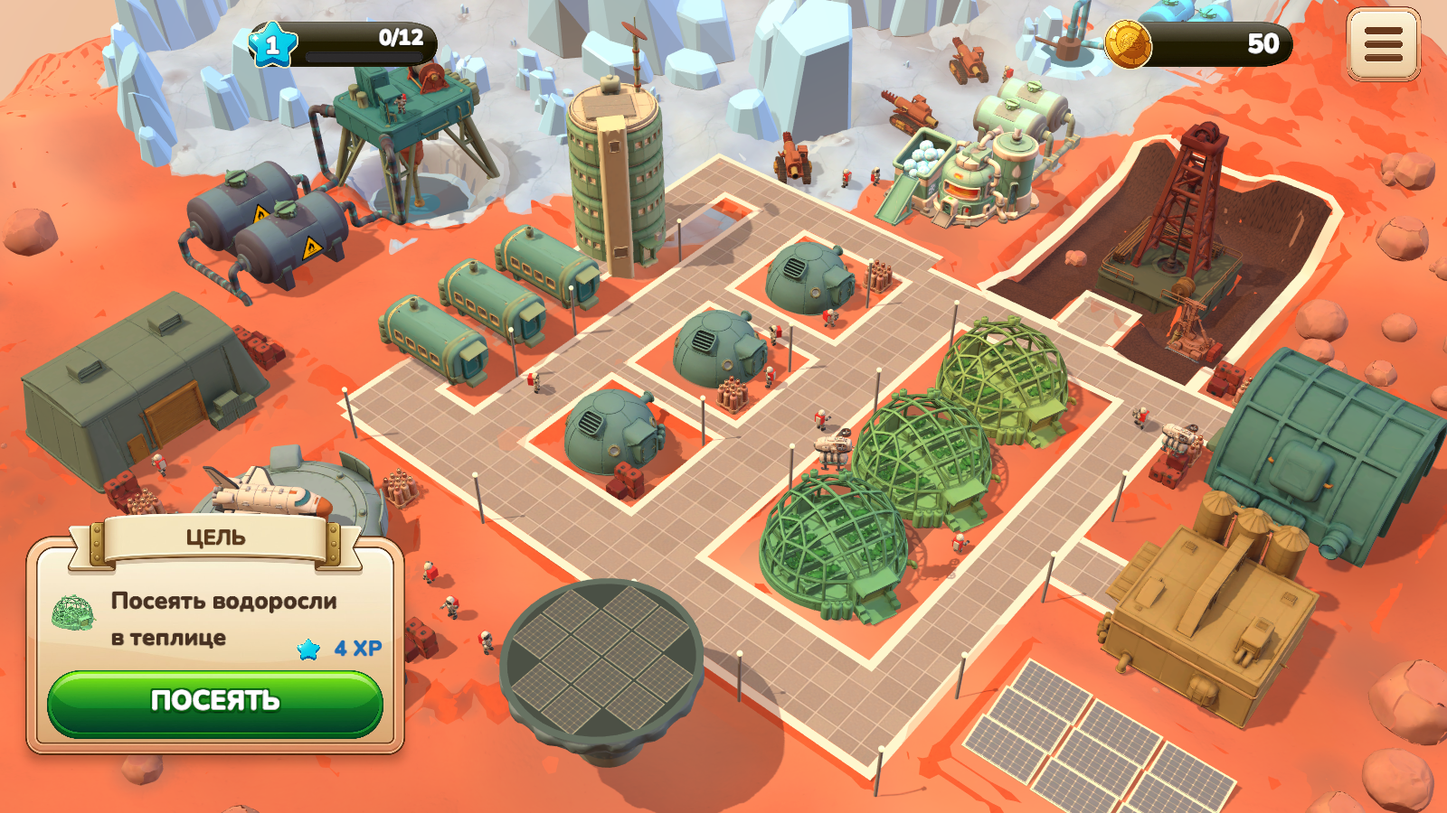
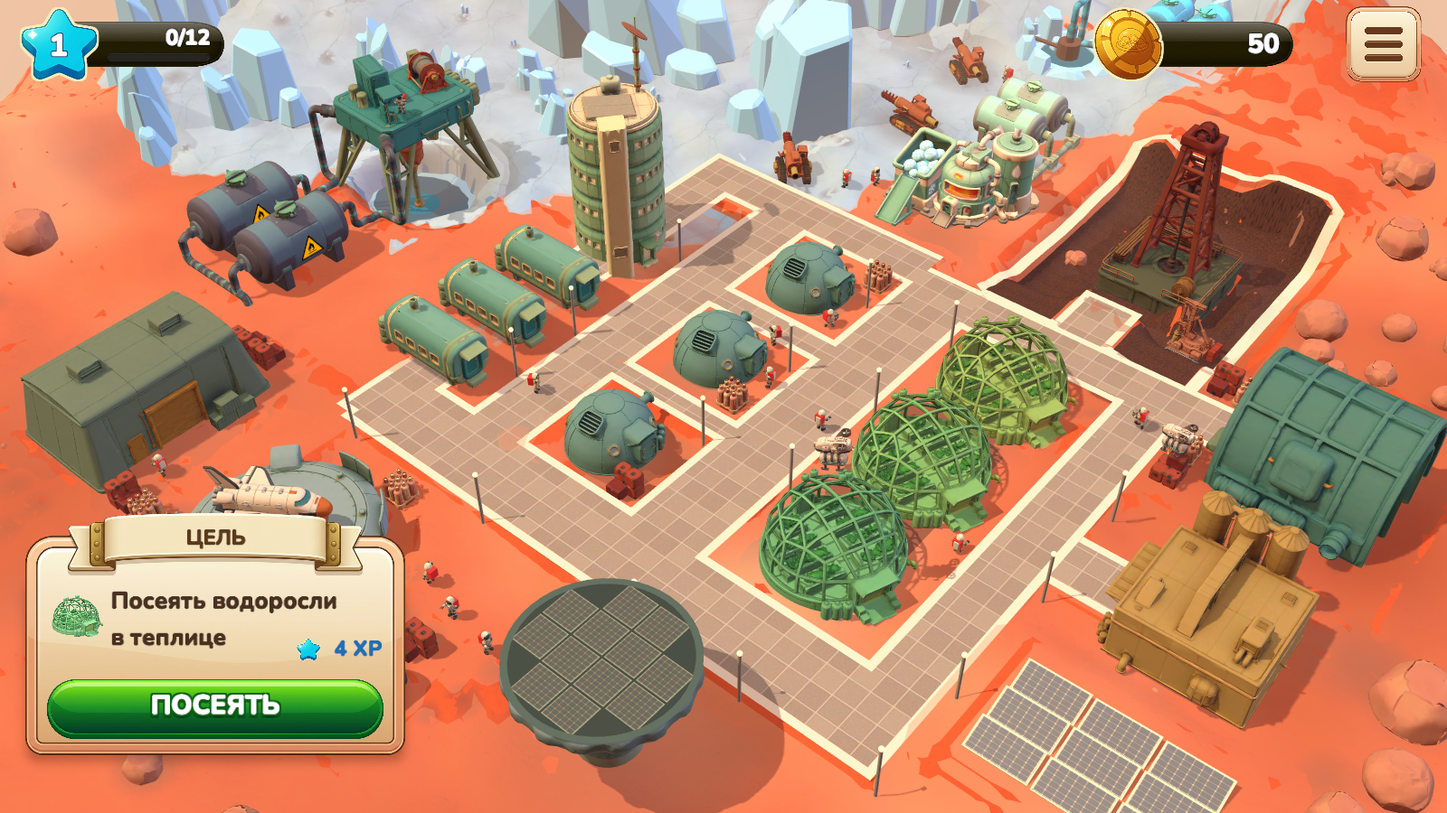
Этап 3, день 05.09: приёмка UI-34, UI-35 (курс шаттла по носу, тень-декаль, открытый отсек), переименования, кофе
- PRIEMKA-UI-34.md: P1/P3б/P14 приняты, P8 не принят (25 px) — доведён +8 px в mars-unity
- OTCHET-etap3.md, BRIEF.md, memory/log.md: виток UI-35 — заход слева по курсу носа, уход носом через карту, тень-декаль, подмена на открытый отсек, переименования зданий, разделение туннельных домов, новая пачка кофе-пайка
- даты 2026-09-06 в документах исправлены на 2026-09-05 (машинное время и коммиты)
- .gitignore: loop/ui/anim/ (серии кадров)

diff --git a/loop/ui/OTCHET-etap3.md b/loop/ui/OTCHET-etap3.md
@@ -1,4 +1,4 @@
-# Отчёт этапа 3 (спека loop/SPEC-ETAP-3.md), начат 2026-09-06 утром
+# Отчёт этапа 3 (спека loop/SPEC-ETAP-3.md), начат 2026-09-05 утром
 
 ## Блок 1 — полировка вида
 - Аудит критика кадра записан: `loop/ui/AUDIT-polirovka-kritik.md`. Аудит арт-директора — в работе.
@@ -10,3 +10,20 @@
 - Виток UI-30 (P1+P2+P4: медальоны 1.65×, капсула опыта к краю, лента и кнопка карточки) — программист; A1 анимации — mars-juice параллельно (файлы не пересекаются).
 - UI-30 (P1+P2+P4): кадр `etap3-hud-1.png` — медальоны 1.65× с выступом, капсула опыта у края; лента карточки: попытка уменьшить выступ числом сдвинула текст под ленту (высота ленты зашита в panel.png) — возвращено 68, кнопка 66/иконка 64/«4 XP» с отступом оставлены. Пересъёмка `etap3-hud-2.png`.
 - A1 анимации (AnimatsiiInterfeysa, NazhatieKnopki, EkranSklada, SkladSostoyanie, ZhivoyInterfeys): в Play «+24» над капсулой кредитов при продаже, пузырь и нажатие — кадры `etap3-anim-*.png`.
+- Приёмка UI-30 инспектором (`etap3-hud-2.png`): P2/P4/P5 подтверждены числом; P1 — медальоны вышли 1.36-1.44× вместо 1.6-1.7× (у спрайтов прозрачные поля ~17%); A1 по внешним скриншотам **не подтверждена** — на 60/130 мс кадры уже конечные (латентность клика+скриншота больше самой анимации).
+- Доворот P1: `medH = kapH × 1.65 × 1.2` под поля спрайта, кадр `etap3-hud-3.png` (звезда видимая ~82 px при капсуле 50).
+- UI-31 (P6 уступ вкладок, P7 пузырь над карточкой с клэмпом по полю, P8 отступ РАСШИРИТЬ): кадр `etap3-sklad-2.png`, клик в Play по руде — `etap3-sklad-2-puzyr.png` (пузырь вверх, центр по руде; перекрывает ряд выше — геометрически неизбежно при высоте 168 и шаге ряда 140).
+- A1 пересъёмка серией кадров изнутри Play (`SeriyaKadrovUI.Nachat`, `loop/ui/anim/`): открытие/закрытие склада, пузырь, нажатие кнопки — движение есть и укладывается в спеку (пузырь сходится к 116 мс, нажатие 0-52 мс вниз / 71-108 мс вверх). Продажа вскрыла два дефекта, оба починены:
+  1) «+N» над кредитами не двигалась и не гасла — `Dvigat` звался только из `Obnovit` (ColonyGame в сцене MAIN нет), всплывашка навек висела поверх числа. Теперь `LateUpdate` в `ZhivoyInterfeys`.
+  2) Монета не появлялась в кадре ни разу при чистом логе — холст Screen Space Camera с масштабом ~0.0005, дуга `Vector3.up × 90` в мировых единицах уносила её за экран. Полёт переписан в локальных координатах холста (`prodat3/`: bbox монеты идёт от кнопки (497,496) к медальону (2079,77) за 340 мс).
+- Коммит mars-unity 342627f. Приёмка UI-31 + P1 + A1 — инспектор (в работе).
+- UI-32 (P3+P9): зазор меню—капсула уже 65 px (критик мерил старую раскладку), бар опыта 12→9 px и трек α0.7; нулевые товары склада: серый 0.42/α0.62, масштаб 0.9, число 8F7A5E; контраст самой светлой части нулевой иконки к полю ≈83/255 (порог 40). Кадры `etap3-hud-4.png`, `etap3-sklad-3.png`. Коммит mars-unity bcdd768. Инспектор — в работе.
+- UI-33 (P10+P11): X плашки и маяка — экранный центр bounds рендереров здания (`VyborZdaniy.EkrannyyCentrX`), Y — макушка по вершинам как прежде; хвостик-треугольник `Assets/UI/Generated/hvostik-plashki.png` под плашкой (пивот плашки на макушке+12, остриё в 2 px над макушкой). Кадры окна: `play2_tap_kupol.png` (Теплица по центру среднего купола), `play2_tap_angar.png` (Склад по центру ангара, было ~57 px влево). Маяк на старте без тапа виден (`etap3-mayak-start.png`, по центру X целевого купола); кадр «через 1 с после Entered play mode» был ещё редакторским — стартовые кадры снимать не раньше 5 с после входа в Play. Коммит e85ecbe.
+- Прозрачность (bd 4y9) **опровергнута**: пять тест-квадов (opaque, Unlit transparent, Sprites/Default, alpha-clip, Particles/Unlit transparent) видны и в редакторском RT (`diag-prozrachnost.png`), и в Play через бэкбуфер на 6 и 60 м (`anim/kvady/`). Пыль шаттла не видна по трём своим причинам, найденным серией кадров + тепловой картой диффа (`anim/shattl2..6`): (1) кольцо 1.5-3 м лежало под корпусом 8×7.6 м шаттла — квады закрыты самим шаттлом → кольцо и размер клубов от габарита (`RadiusShattla`); (2) лист ohyhei — альфа максимум 143, средняя 7.6 → лист собран из Kenney smoke_09 (CC0), 25 кадров одного клуба с гашением; (3) `_BaseMap_ST` через MaterialPropertyBlock у URP Particles/Unlit не применяется — на квад ложился весь лист 5×5 сеткой точек → окно кадра через UV меша. Тинт D9895A α0.65 на 75 м давал эффективную альфу ~0.2 → E8B48F α1.0 (отклонение от паспорта, показать АД).
+- UI-34 (доводка + пыль): РАСШИРИТЬ +4 px (`etap3-sklad-4.png`), монета коэффициент 1.125 против 1.2 у звезды (`etap3-hud-6.png`), трек опыта α0.6; пыль шаттла видна (`anim/shattl7`, монтаж `etap3-shattl-pyl-montazh.png`: 7 клубов по кольцу снаружи силуэта, растут и держатся 0.5 с). Коммиты mars-unity 10e3a2c, 68da40c. Инспектор — в работе. bd 4y9 закрыта как опровергнутая.
+- Приёмка UI-34 инспектором (`PRIEMKA-UI-34.md`): P1 принят (медальоны 1.64×), P3б принят (трек 9 px, контраст 1.1:1), P14 пыль принята (5 из 7 клубов видны, все вне корпуса, рост площади 0→6494 px за 505 мс, контраст к грунту 27-53/255); P8 НЕ принят — 25 px от нижней кромки против 30-35. Правка: кнопка РАСШИРИТЬ поднята ещё на 8 px (`barAbove + 8f`); кадр снимается пересборкой HUD в Edit mode — ждёт паузы в Play заказчика.
+- UI-35, курс шаттла (замечание заказчика 05.09, скриншот с белой и красной дугой: двигатели сзади, вертикально не взлетает). `PolyotShattla.Poza` переписана: заход с левого края кадра по курсу носа (36 м, с 9 м над уровнем покоя, глиссада h∝ost², торможение s∝ost^1.5, 3.0 с), выравнивание 0.4 м / 0.15 с, просадка-баунс 0.45 с ровно в позу покоя; уход носом вперёд через карту (80 м, набор 35 м — высоту поднял `dron-1` с верхом 11 м, разгон s∝u^1.7, высота h∝u^1.8, 4.2 с) в правый верхний угол. Дистанции и высоты считаются по камере (WorldToScreenPoint до выхода за край) и рельефу (RaycastAll по zemlya), не хардкод. Нос — PCA вершин меша (0.829, 0, 0.560), это −up дочернего узла Tripo (0.2°); корпус 6.29 м, тонкий конец по +оси. Траектория от центра меша: пивот уехал на 24 м. Серии изнутри Play: `anim/kurs1-zahod` (шаттл входит у левого края на y≈490 из 1043 и садится в позу покоя), `anim/kurs3-vzlet`, `anim/kurs3-stoyanka`.
+- UI-35, P12 тень-декаль: квад с процедурным радиальным спадом (1−r)^1.6, URP/Unlit transparent, чёрный, альфа 0.55 у земли → 0.14 на 12 м, диаметр 2.6 полуоси меша, растёт на 35% с высотой, лежит на уровне низа меша в покое (+6 см). Первый вариант (цвет через MaterialPropertyBlock, очередь 2999) при `isVisible=true` в кадр не попадал — тест-квады с тем же шейдером рисовались; причина не найдена, обход — как у тест-квадов (цвет в материале, очередь 3001). Тепловая карта `anim/kurs1-zahod/ten-heat.png`: затемнение под шаттлом 19-29/255 на глиссаде рядом с резкой солнечной тенью.
+- UI-35, открытый отсек: второй ассет заказчика `shattl-otkrytyy` (цельный меш Tripo, дверей отдельными частями нет) выровнен в редакторе по курсу и низу меша закрытого (нос 0.3°, габарит 8.12×4.03×7.73 против 8.00×3.94×7.65). На стоянке через 0.6 с после касания закрытый подменяется открытым, перед взлётом — обратно (`PokazatOtkrytyy`, смещение снимается в Awake и следует за позой покоя). Настоящее раскрытие створок потребует разрезать открытый меш на створки в Blender (петля по нижней кромке) — отдельная работа кузнеца ассетов.
+- Переименования (слово заказчика 05.09, `ZdaniyaCeliBuilder.SPISOK`): sklad-bunkery «Грузовой терминал» → «Склад», sklad-angar «Склад» → «Ангар спецтехники», modul-tonnelnyy «Общежитие» → «Туннельный дом». Три туннельных дома были одним объектом с одной целью клика (выделялись и подписывались вместе) — группа переименована в `tonnelnye-doma` без цели, цели поставлены на `modul-tonnelnyy-1/2/3`; имена перепрошиты на всех 28 целях, макушки запечены по вершинам. Иконка «Кофе-паёк»: пачка заказчика (rembg, предмет 45.7% кадра, без серого ореола и тени-подставки, обводка 14.5 px и насыщенность 0.64 как у ряда) заменила винный мешочек.
+- Открытый вопрос: рабочая копия `Main.unity` получила правки сцены в 14:59 (трубы, болты, бочка кислорода, ящики, четыре новых баллона у двора; 70 объектов сдвинуто) — не мои команды и не мои агенты, происхождение не установлено; копия до сохранения — в scratchpad сессии; сцена сохранена вместе с ними при выравнивании шаттла и разделении туннельных домов.

diff --git a/loop/ui/PRIEMKA-UI-34.md b/loop/ui/PRIEMKA-UI-34.md
@@ -1,0 +1,82 @@
+# Приёмка UI-34, этап 3, блок 1 «полировка» (2026-09-05)
+
+Метод: Python (Pillow/numpy), прямой замер по пикселям кадра, без правок кода/сцены. Кадры окна — 1600x900, серия из Play — 2588x1043 (проверено по факту, см. п.4). Рамка замера указана в каждом пункте.
+
+## 1. P8, склад — отступ кнопки РАСШИРИТЬ от нижней кромки панели
+
+Кадр: `etap3-sklad-4.png` (1600x900).
+
+Рамка замера: нижний край кнопки — по колонкам x=980..1200 (тёмно-зелёная обводка кнопки, вне зоны скругления её углов), устойчиво **y=847**. Нижняя кромка панели (граница персикового бордюра и марсианского фона) — на плоском участке x=630..940 устойчиво **y=872** (проверено на 31 колонке, значение не плавает). Прямо под кнопкой, x=1050..1100 (левее правого скругления панели): y=870-871.
+
+Отступ = 872 − 847 = **25 px** (на плоском участке; у правого края кнопки падает до 17-20 px — панель там уже входит в скругление угла).
+
+Цель по спеке: 30-35 px.
+
+**Вердикт: НЕ ПРИНЯТО.** Не хватает 5-10 px до нижней границы коридора. Прошлая правка («+4 px», см. OTCHET-etap3.md UI-34) продвинула кнопку, но недостаточно.
+
+## 2. P1, HUD — видимый диаметр медальонов к высоте капсулы
+
+Кадр: `etap3-hud-6.png` (1600x900).
+
+Рамка замера — капсулы: тёмная пилюля-трек, замер по колонкам x=125..160 (капсула звезды «0/12») и x=1310..1350 (капсула монеты «50»), вне зоны текста. Верх/низ капсулы (чистый переход тёмного в фон, без сглаживания) — **y=24 → y=73** в обоих случаях, высота **50 px**.
+
+Рамка замера — медальоны: по кремовой обводке медальона (RGB≈251,235,186), полный диапазон по всем колонкам звезды/монеты (включая нижние «лапы» звезды и нижнюю дугу монеты) — **y=8 → y=89** в обоих случаях, высота **82 px**.
+
+Соотношение: звезда 82/50 = **1.64×**, монета 82/50 = **1.64×**. Цель: 1.6-1.7×.
+
+**Вердикт: ПРИНЯТО.** Оба медальона попали в коридор (было 1.36-1.44×, коэффициенты 1.2/1.125 сработали). Побочно: выступ над/под капсулой вышел ровно 16 px с каждой стороны (в SPISOK записывалось пожелание 18-20 px) — критерий этого захода это коэффициент 1.6-1.7×, он выполнен; выступ в px не был явным пунктом приёмки, фиксирую как наблюдение, не как отказ.
+
+## 3. P3б, HUD — контраст пустого трека опыта
+
+Кадр: `etap3-hud-6.png`, капсула звезды.
+
+Рамка замера: y=59..67 внутри капсулы, x=118..165 (чистый участок, без текста «0/12»). Высота светлой полосы-трека — ровно **9 строк (9 px)**, совпадает со спекой. Цвет трека [39,36,32] против заливки капсулы вокруг [33,28,2] (тот же x-диапазон, y=47..57).
+
+Контраст трек/заливка по WCAG-люминансу ≈ **1.1:1** (практически неразличимо по яркости), абсолютная разница каналов ≈15/255. Для контекста: заливка/белый текст ≈17:1, заливка/фон ≈10:1 — элементы, которые обязаны читаться, контрастнее трека на порядок.
+
+Глазом (кроп `track_zoom.png`, сохранён в скретчпаде): трек виден как едва заметная тёмно-серая полоска, не конкурирует ни с цифрами, ни с медальоном.
+
+**Вердикт: ПРИНЯТО.** Высота точно по спеке (9 px), контраст низкий и по числу, и по глазу — трек ушёл на второй план, не читается как «мёртвый груз».
+
+## 4. P14, шаттл — пыль при посадке
+
+Кадры: `etap3-shattl-pyl-montazh.png` (5 стоп-кадров), серия `anim/shattl7/shattl-00..29-*.png`. Факт по диску: **30 файлов (00-29), 000-523 мс** — в задаче было заявлено «29 кадров, 0-505 мс», по факту на один кадр больше и до 523 мс; несущественно, но фиксирую расхождение с описанием. Плюс `diff_heat.png`.
+
+Метод: попиксельный diff кадра 00 (000 мс) и кадра 28 (505 мс), связные компоненты (scipy.ndimage.label, порог |Δ|>40 по сумме 3 каналов); отдельно — средний цвет ядра каждого клуба (топ-15% самых засвеченных diff-пикселей) против того же места на кадре 00 (чистый грунт/плита).
+
+**Клубы видны:** да. Найдено **5 отдельных клубов** диффом, не 7:
+- два у кокпита сверху (один тонкий вытянутый, один округлый рядом — расположены впритык, но это два разных пятна);
+- один слева на грунте;
+- один снизу по центру на грунте;
+- один справа на бортике площадки (визуально разрезан пополам приподнятым краем площадки — это один клуб, просто перекрыт геометрией борта в середине).
+
+**Снаружи силуэта шаттла:** да. Прямоугольник корпуса на кадре — x627-795, y597-711; все 5 клубов лежат вне этого прямоугольника, ни один не спрятан под корпусом.
+
+Оставшиеся 2 из заявленных 7 — вероятно на дальней стороне кольца, скрытой корпусом от этой камеры; по имеющимся кадрам (камера не поворачивается) подтвердить или опровергнуть их существование нельзя.
+
+**Стиль:** мягкие рваные по контуру облака (см. кропы `puff_left_zoom.png`, `puff_bottom_zoom.png` в скретчпаде) — не квадраты, не сетка точек. Старые дефекты (лист 5×5, плоская альфа) не вернулись.
+
+**Контраст к грунту:** по ядру клуба (без растушёванного края) разница светлоты — 26.7 / 32.8 / 51.0 / 52.7 (из 255) на четырёх измеренных клубах; порог из задания ~25 — все четыре выше или на границе. Слабее всего клубы на самой площадке (у кокпита Δ26.7, на бортике Δ32.8) — тёплый тинт слабее контрастирует с серо-голубым металлом, чем с оранжевым грунтом (Δ51-53 у двух клубов на грунте). Если считать разницу по всем пикселям клуба вместе с прозрачным краем — цифры ниже (15-27), но так и должно быть у мягкого спрайта с растушёванным краем, это не тревога.
+
+**Рост по кадрам** (площадь diff>40 по 4 зонам): 0 мс — 0 px; 97 мс — 226 px (почти весь прирост в одной точке, остальные ещё не тронулись); 249 мс — 4592 px; 505 мс — 6494 px. Рост монотонный и уверенный. К 505 мс площадь ещё растёт, на полку не выходит — фаза «держатся 0.5 с» этой серией не покрыта: кадры обрываются ровно на границе заявленных 0.5 с, виден только рост, не удержание.
+
+**Вердикт: ПРИНЯТО.** Пыль видна, лежит снаружи корпуса, стиль клубов правильный, контраст к грунту в плотной части достаточный, рост подтверждён числом. Два замечания ниже уровня отказа, но стоит знать: (1) диффом подтверждено 5 клубов из 7 заявленных — не хватает ракурса, чтобы увидеть дальнюю сторону кольца; (2) фаза удержания после роста кадрами не покрыта.
+
+---
+
+## Итог
+
+| # | Пункт | Вердикт | Число | Цель |
+|---|---|---|---|---|
+| 1 | P8 отступ РАСШИРИТЬ | **НЕ ПРИНЯТО** | 25 px (17-20 px у угла) | 30-35 px |
+| 2 | P1 диаметр медальонов | **ПРИНЯТО** | звезда 1.64×, монета 1.64× | 1.6-1.7× |
+| 3 | P3б контраст трека | **ПРИНЯТО** | высота 9 px, контраст ≈1.1:1 (Δ≈15/255) | тише, не «мёртвый груз» |
+| 4 | P14 пыль шаттла | **ПРИНЯТО** | 5/7 клубов подтверждено диффом, контраст ядра 27-53/255, рост 0→226→4592→6494 px | видна, снаружи корпуса, растёт |
+
+## Дефекты к правке (по убыванию веса)
+
+1. **Заметно портит.** P8: отступ кнопки РАСШИРИТЬ от низа панели — 25 px вместо 30-35 px. Нужно ещё 5-10 px (сдвинуть кнопку выше либо увеличить нижнее поле панели).
+2. **Придирка.** P14: диффом подтверждено 5 клубов пыли из заявленных 7 — дальняя сторона кольца скрыта корпусом шаттла от текущей камеры, не проверяема этой серией кадров. Если важно подтвердить все 7 — нужен кадр с другого ракурса (сверху или с разворотом).
+3. **Придирка.** P14: серия обрывается на 523 мс, ровно на границе заявленных 0.5 с — фаза «держится» не отснята, виден только рост. Для проверки удержания нужны кадры за пределами 505-523 мс.
+4. **Придирка.** P14: клуб на бортике площадки справа визуально разрезан пополам приподнятым краем борта (геометрия площадки перекрывает середину клуба). Не портит чтение (клуб опознаётся), но при желании поправить — сдвинуть точку спавна чуть дальше от кромки борта.
+5. **Придирка.** P1: выступ медальона над/под капсулой вышел 16 px с каждой стороны против пожелания 18-20 px в SPISOK-pravok-blok1.md — сам коэффициент (1.6-1.7×) при этом в норме, это разночтение между двумя формулировками одной правки, не дефект кадра.

diff --git a/memory/log.md b/memory/log.md
@@ -2,8 +2,11 @@
 2026-09-05 — утро: чекпоинт по запросу заказчика; метан m5 принят; медальоны на иконках заказчика; агенты спеки склада и паспорта элементов упали по лимиту 04.09, перезапущены.
 2026-09-05 — день: пилот генерированных элементов интерфейса собран (панель, кнопка, капсулы, бар, меню), тёплая палитра; спека склада и паспорт элементов готовы; ждём остальное: склад.
 2026-09-05 — вечер: rembg-вырезка иконок без подставок; HUD на элементах заказчика; заказчик перегенерирует меню/крест/ячейку; написан PROMPT-NOCH-2.md.
-2026-09-06 — ночь 2, витки 1-3: склад по амбару, кликабельность (EventSystem), шаттл; чекпоинт.
-2026-09-06 — ночь 2, виток 4 закрыт (UI-24); UI-23 отложен (пыль).
-2026-09-06 — ночь 2, витки 4-5 закрыты (UI-24, UI-25); судья: продажа — ядро; UI-26 в работе.
-2026-09-06 — ночь 2 витки 6-7: продажа принята (UI-26), шаттл escalated (UI-23); чекпоинт.
-2026-09-06 — утро: интервью spec-pilot, спека этапа 3 утверждена; запущен аудит зон и поиск спрайтов пыли.
+2026-09-05 — ночь 2, витки 1-3: склад по амбару, кликабельность (EventSystem), шаттл; чекпоинт.
+2026-09-05 — ночь 2, виток 4 закрыт (UI-24); UI-23 отложен (пыль).
+2026-09-05 — ночь 2, витки 4-5 закрыты (UI-24, UI-25); судья: продажа — ядро; UI-26 в работе.
+2026-09-05 — ночь 2 витки 6-7: продажа принята (UI-26), шаттл escalated (UI-23); чекпоинт.
+2026-09-05 — утро: интервью spec-pilot, спека этапа 3 утверждена; запущен аудит зон и поиск спрайтов пыли.
+2026-09-05 — день, этап 3 блок 1: UI-30 принят частично (P1 доведён ×1.2), UI-31 снят, A1 переснята серией кадров изнутри Play — найдены и починены «+N» без движения и монета за экраном (холст Screen Space Camera). Коммит mars-unity 342627f.
+2026-09-05 — день, этап 3 блок 1 (продолжение): UI-31..UI-33 закрыты инспекторами (склад P6-P8, тише P3/P9, якоря P10/P11 с хвостиком плашки); прозрачность (bd 4y9) опровергнута тест-квадами; пыль шаттла найдена и починена по трём причинам (кольцо под корпусом, альфа листа, _BaseMap_ST в MPB). UI-34 на приёмке.
+2026-09-05 — вечер: приёмка UI-34 (P1/P3б/P14 приняты, P8 доведён +8 px); UI-35 по слову заказчика: курс шаттла (заход слева по носу, уход через карту, поза покоя константа), тень-декаль видна, открытый отсек подменой ассета, переименования зданий и разделение туннельных домов на отдельные цели, новая пачка кофе-пайка; лимит просмотра картинок — приёмка глазами через субагента.

diff --git a/loop/ui/SPISOK-pravok-blok1.md b/loop/ui/SPISOK-pravok-blok1.md
@@ -1,4 +1,4 @@
-# Список правок блока 1 «Полировка» (сведение аудитов арт-директора и критика, 2026-09-06)
+# Список правок блока 1 «Полировка» (сведение аудитов арт-директора и критика, 2026-09-05)
 
 Порядок — по весу для «кадр читается как экран игры». Одна правка = один виток с воротами и парным кадром.
 
